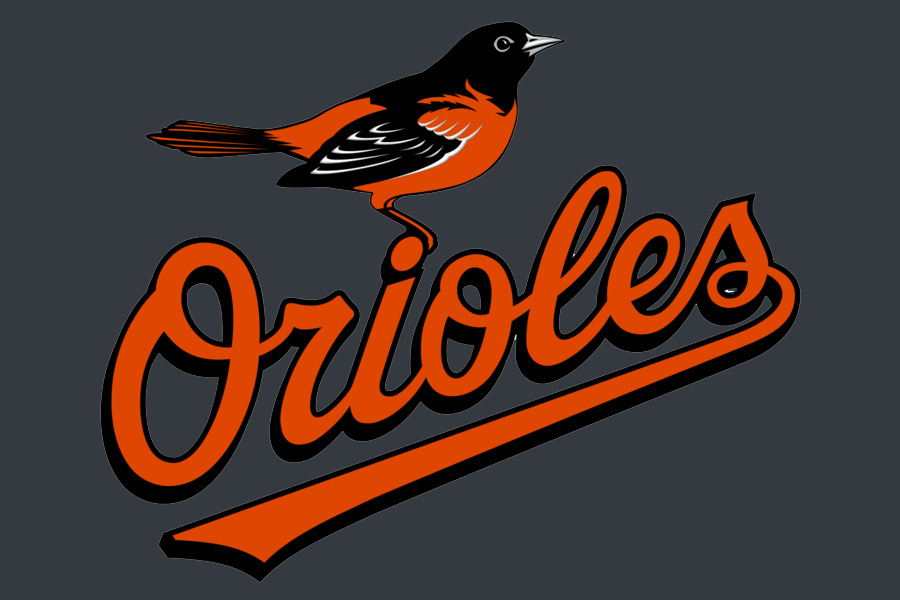
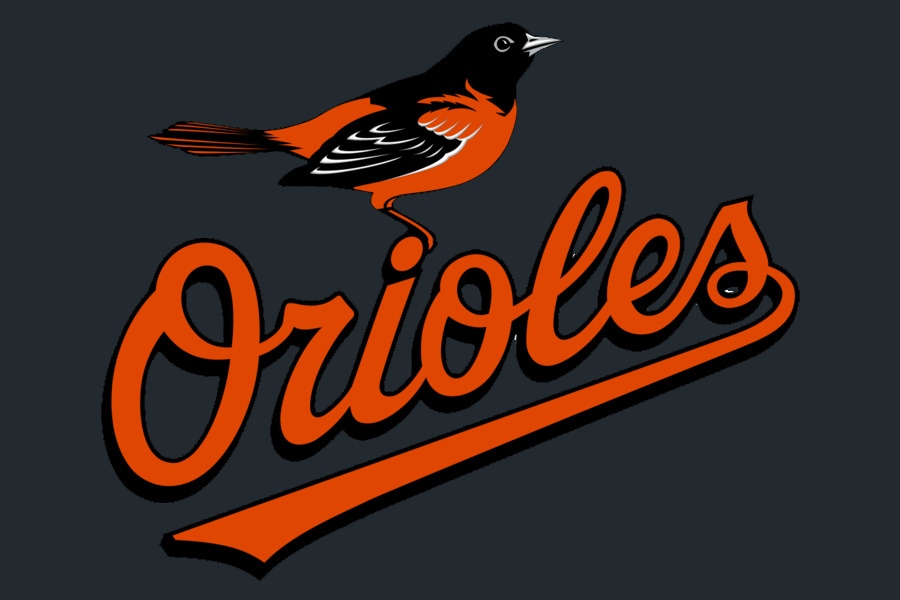
Login page map added

diff --git a/gerrymander-demo/src/main/webapp/login.html b/gerrymander-demo/src/main/webapp/login.html
@@ -4,32 +4,25 @@
     <title>Gerrymander</title>
     <script type="text/javascript" src="https://cdnjs.cloudflare.com/ajax/libs/jquery/3.3.1/jquery.js"></script>
     <link rel="stylesheet" href="https://stackpath.bootstrapcdn.com/bootstrap/4.3.1/css/bootstrap.min.css" integrity="sha384-ggOyR0iXCbMQv3Xipma34MD+dH/1fQ784/j6cY/iJTQUOhcWr7x9JvoRxT2MZw1T" crossorigin="anonymous">
+    <link rel="stylesheet" href="https://unpkg.com/leaflet@1.4.0/dist/leaflet.css" integrity="sha512-puBpdR0798OZvTTbP4A8Ix/l+A4dHDD0DGqYW6RQ+9jxkRFclaxxQb/SJAWZfWAkuyeQUytO7+7N4QKrDh+drA==" crossorigin=""/>
+    <script src="https://unpkg.com/leaflet@1.4.0/dist/leaflet.js" integrity="sha512-QVftwZFqvtRNi0ZyCtsznlKSWOStnDORoefr1enyq5mVL4tmKB3S/EnC3rRJcxCPavG10IcrVGSmPh6Qw5lwrg==" crossorigin=""></script>
     <link rel="stylesheet" type="text/css" href="style.css">
     <script type="text/javascript" src="login.js"></script>
 </head>
 <body>
 
-
 <div id = "fixed-top">
     <div class="row">
-        <!--<div class="col">-->
-            <!--<img src="Oriole.jpg" class="rounded float-left">-->
-        <!--</div>-->
         <div class="col">
             <p class="h3">Gerrymander</p>
         </div>
-        <!--<div class="col-md">-->
-            <!--<form id="signInAsGuest" action = "/hello">-->
-                <!--<input type="button" class="btn btn-primary" value="Sign In as a Guest" onclick="document.getElementById('signInAsGuest').submit()">-->
-            <!--</form>-->
-        <!--</div>-->
     </div>
 </div>
+
 <section class="signinpage">
     <div class="oriole">
-        <img src="bigoriole.png" class="rounded">
+        <img src="bigoriole.png" class="rounded1">
     </div>
-
     <div class = "container">
         <form class="form-signin" id="toHome" action="/index.html">
             <h1 class="h3 mb-3 font-weight-normal">Please sign in</h1>
@@ -46,42 +39,14 @@
         </form>
         <button class="btn btn-lg btn-primary btn-block sign-up-btn" type="submit">Sign Up</button>
     </div>
+    <div class="oriole">
+        <img src="scroll.gif" class="scroll">
+    </div>
 </section>
 
+
 <section class="mappage">
-    <svg width="960" height="600"></svg>
-    <script src="https://d3js.org/d3.v4.min.js"></script>
-    <script src="https://d3js.org/topojson.v2.min.js"></script>
-    <script>
-
-        var svg = d3.select("svg");
-
-        var path = d3.geoPath();
-
-        // var projection = d3.geo.albersUsa()
-        //     .scale(1070)
-        //     .translate([width / 2, height / 2]);
-
-        // var path = d3.geo.path()
-        // 			 .projection(projection);
-
-        d3.json("https://d3js.org/us-10m.v1.json", function(error, us) {
-            if (error) throw error;
-
-            svg.append("g")
-                .attr("class", "states")
-                .selectAll("path")
-                .data(topojson.feature(us, us.objects.states).features)
-                .enter().append("path")
-                .attr("d", path);
-
-            svg.append("path")
-                .attr("class", "state-borders")
-                .attr("d", path(topojson.mesh(us, us.objects.states, function(a, b) { return a !== b; })));
-        });
-
-    </script>
-
+    <div id="loginmap"></div>
 </section>
 
 <div class="lightbox">

diff --git a/gerrymander-demo/src/main/webapp/style.css b/gerrymander-demo/src/main/webapp/style.css
@@ -1,5 +1,5 @@
 #fixed-top {
-    background-color:#343a40 !important;
+    background-color:#232a30 !important;
     color: #450000 !important;
     text-align: center !important;
     padding: 5px !important;
@@ -11,9 +11,9 @@
     color: white !important;
     font-family: cursive;
 }
-body{
-    background-color: #343a40 !important;
-
+body, html{
+    background-color: #232a30 !important;
+    height: 100%;
 }
 .col-md{
     float: right;
@@ -30,6 +30,24 @@ body{
     width: 75%;
     height: 900px;
     float: left;
+}
+.rounded1{
+    display: block;
+    margin-left: auto;
+    margin-right: auto;
+    width: 50%;
+}
+.scroll {
+    display: block;
+    margin-left: auto;
+    margin-right: auto;
+    padding: 5%;
+}
+#loginmap{
+    width: 80%;
+    height: 100%;
+    margin-left: auto;
+    margin-right: auto;
 }
 
 .lightbox {
@@ -94,34 +112,15 @@ body{
     color: black;
 }
 .signinpage{
-
-    
+    height: 100%;
+    alignment: center;
+    background-color: #232a30;
 }
 .mappage{
+    height: 100%;
     text-align: center;
-    background-color: #343a40;
-
+    background-color: #232a30;
+    display: block;
+    width: 100%;
 }
 
-
-/*D3.js map================================*/
-.states :hover {
-    fill: orange;
-}
-.states{
-    fill: black;
-}
-
-.state-borders {
-    fill: none;
-    stroke: yellow;
-    stroke-width: 0.5px;
-    stroke-linejoin: round;
-    stroke-linecap: round;
-    pointer-events: none;
-}
-.svg{
-    stroke: black;
-    background: yellow;
-    text-align: center;
-}

diff --git a/gerrymander-demo/src/main/webapp/login.js b/gerrymander-demo/src/main/webapp/login.js
@@ -1,9 +1,21 @@
 $(function () {
-    $(".sign-up-btn").click(function() {
+    $(".sign-up-btn").click(function () {
         $(".lightbox").delay(500).fadeIn(500);
     });
-    $(".btn-sm").click(function() {
+    $(".btn-sm").click(function () {
         $(this).stop().fadeOut();
+    });
+
+    $(".loginmap").ready(function () {
+        var mymap = L.map('loginmap').setView([44.985667, -93.267763], 13);
+
+        L.tileLayer('https://api.tiles.mapbox.com/v4/{id}/{z}/{x}/{y}.png?access_token=pk.eyJ1IjoibWFwYm94IiwiYSI6ImNpejY4NXVycTA2emYycXBndHRqcmZ3N3gifQ.rJcFIG214AriISLbB6B5aw', {
+            maxZoom: 18,
+            attribution: 'Map data &copy; <a href="https://www.openstreetmap.org/">OpenStreetMap</a> contributors, ' +
+                '<a href="https://creativecommons.org/licenses/by-sa/2.0/">CC-BY-SA</a>, ' +
+                'Imagery © <a href="https://www.mapbox.com/">Mapbox</a>',
+            id: 'mapbox.streets'
+        }).addTo(mymap);
     });
 
 });
